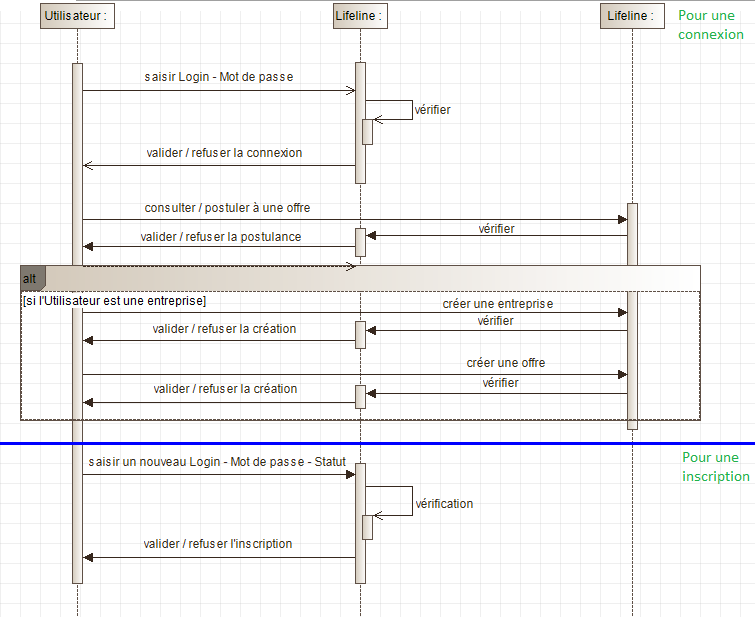
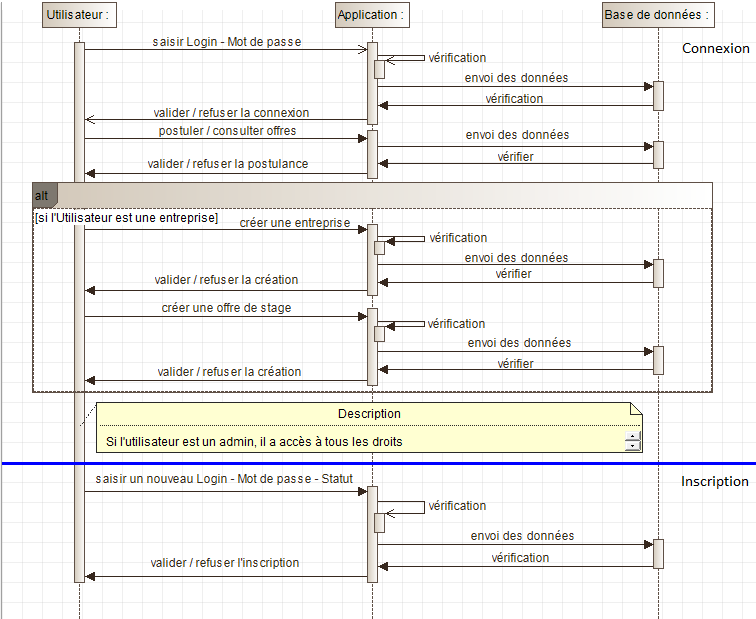
Modification des DAO et du diagramme de séquence

Changed region(s): [[0.0, 0.0, 1.0, 0.9546], [0.7921, 0.0, 1.0, 0.0924]]

diff --git a/src/fr/cils/projet/stage/dao/UtilisateurDao.java b/src/fr/cils/projet/stage/dao/UtilisateurDao.java
@@ -26,7 +26,7 @@ public class UtilisateurDao extends Dao<Utilisateur>
             {
                 utilisateur = new Utilisateur(result.getInt("id"),
                                                 result.getString("login"),
-                                                mdpCryptage(result.getString("pass")),
+                                                result.getString("pass"),
                                                 result.getBoolean("estEntreprise"));
             }
         }
@@ -53,7 +53,7 @@ public class UtilisateurDao extends Dao<Utilisateur>
             {
                 utilisateur = new Utilisateur(result.getInt("id"),
                                                 result.getString("login"),
-                                                mdpCryptage(result.getString("pass")),
+                                                result.getString("pass"), //mot de passe à décrypter
                                                 result.getBoolean("estEntreprise"));
             }
         }
@@ -80,7 +80,7 @@ public class UtilisateurDao extends Dao<Utilisateur>
                 {
                     Utilisateur utilisateur = new Utilisateur(result.getInt("id"),
                                                                 result.getString("login"),
-                                                                mdpCryptage(result.getString("pass")),
+                                                                result.getString("pass"),
                                                                 result.getBoolean("role"));
 
                     listeUtilisateurs.add(utilisateur);

diff --git a/src/fr/cils/projet/stage/dao/OffreStageDao.java b/src/fr/cils/projet/stage/dao/OffreStageDao.java
@@ -22,7 +22,7 @@ public class OffreStageDao extends Dao<OffreStage>
             if(result.first())
             {
                 PreparedStatement selectEntrepriseParId = connect.prepareStatement("SELECT FROM Entreprise WHERE id= ?");
-                selectEntrepriseParId.setInt(1, id);
+                selectEntrepriseParId.setInt(1, result.getInt("Entreprise_id"));
                 selectEntrepriseParId.execute();
 
                 ResultSet resultRequeteEntreprise = selectEntrepriseParId.getResultSet();
